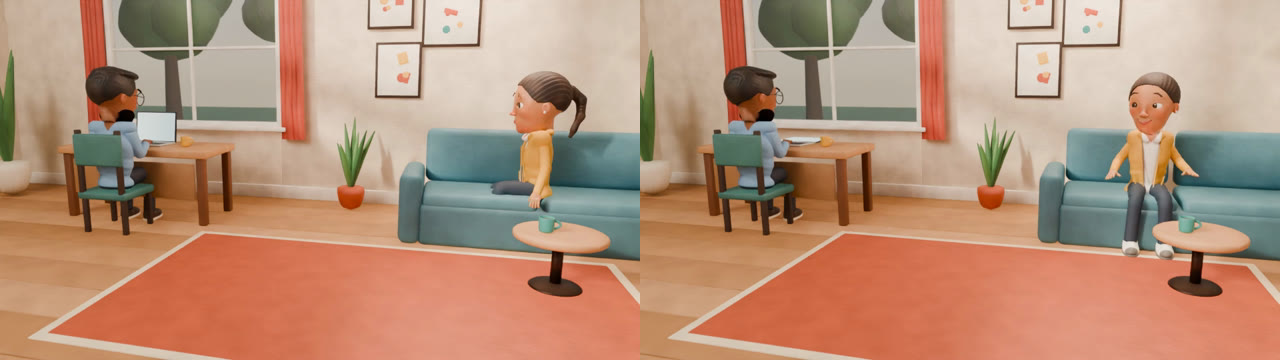
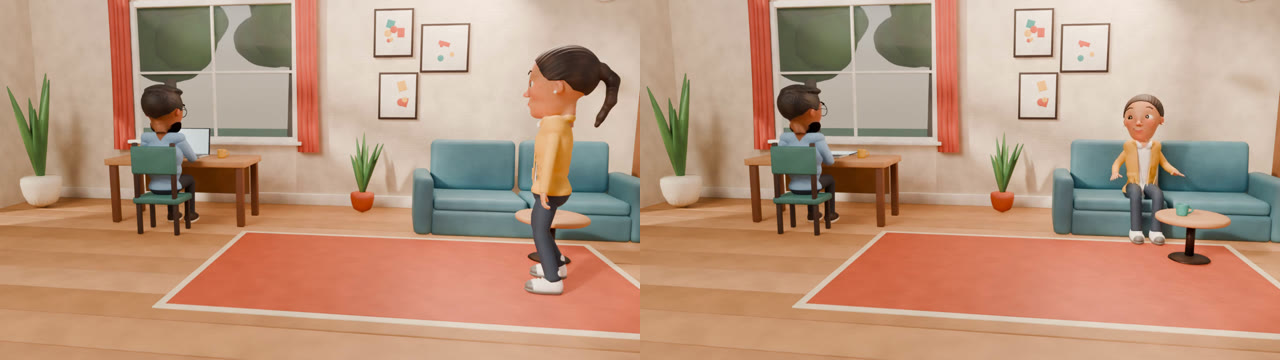
Site: the laptop picture filmed again, with Tara sitting on the sofa
The old picture showed her legs inside the sofa (#28). This one is the first and last drawing of the same shot
(The Fast One's office scene staged in the home office), filmed with this release's engine: every drawing measured
before it was drawn, 0 contacts.

diff --git a/docs/index.html b/docs/index.html
@@ -109,7 +109,7 @@
   <h2>Things a scene file can ask for</h2>
   <figure><img src="media/proof/light-tuned.jpg" alt="Left: a close-up under the preset light. Right: the same close-up with a low warm key from the other side." loading="lazy">
     <figcaption><code>direction.light</code>: the preset on the left, a low warm key from camera right on the right.</figcaption></figure>
-  <figure><img src="media/proof/laptop-closes.jpg" alt="A home office: Bashir's laptop is open at the start of the shot and closed at the end." loading="lazy">
+  <figure><img src="media/proof/laptop-closes.jpg" alt="A home office: Bashir's laptop is open as Tara walks in, and closed once she sits on the sofa." loading="lazy">
     <figcaption><code>direction.props</code>: Bashir's laptop closes as Tara arrives.</figcaption></figure>
   <figure><img src="media/proof/steam-and-clock.jpg" alt="Left: steam rising off a mug on a cafe table. Right: a wall clock reading five past seven." loading="lazy">
     <figcaption><code>direction.dressing: [steam]</code> and <code>direction.clock: "07:05"</code>.</figcaption></figure>
